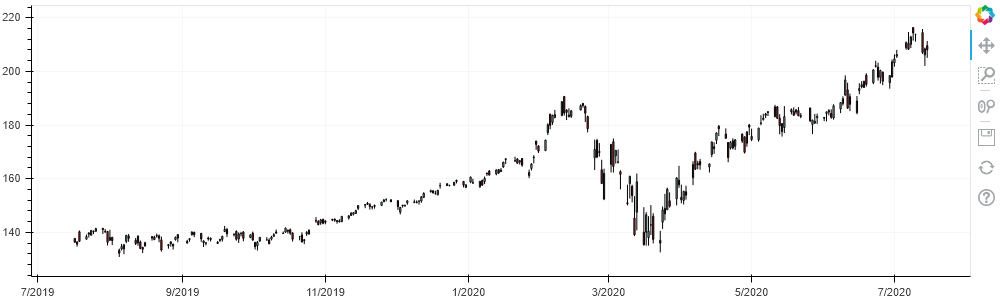
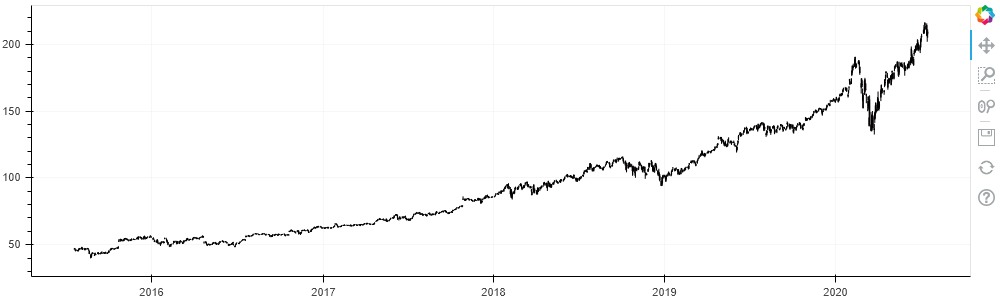
Added options for chart type in !chart command

diff --git a/bot.py b/bot.py
@@ -56,6 +56,17 @@ def inc_dec(c, o):
         value = "Equal"
     return value
 
+def time(entry):
+    if entry == "HY":
+        return 180
+    elif entry == "Y":
+        return 365
+    elif entry == "WK":
+        return 7
+    elif entry == "5Y":
+        return 1825
+    return -1 #bad entry
+
 @bot.event
 async def on_ready():
     print(f'{bot.user.name} has connected to Discord!')
@@ -136,16 +147,25 @@ async def cnews(ctx,stock,number):
         await ctx.send(embed=embed)
     
 
-@bot.command(name="chart") #implement week, half year, full year, 5 year
-async def chart(ctx,stock):
+@bot.command(name="chart")
+async def chart(ctx,stock,span):
     stock2 = stock.upper()
+    span2 = span.upper()
+    timeVal = time(span2)
+
+    if timeVal == -1:
+        await ctx.send(f"Invalid argument {span2}, charts can be given as Weekly (WK), Half Year (HY), Yearly (Y), or 5 Year (5Y).")
+        return
+    
     end = datetime.today()
-    start = datetime.today() - timedelta(days=365)
+    start = datetime.today() - timedelta(days=timeVal)
+
     try:
         df = data.DataReader(name=stock2,data_source="yahoo",start=start,end=end)
     except:
         await ctx.send(f"The stock ***{stock2}*** could not be found, please try again.")
         return
+    
     df["Status"] = [inc_dec(c,o) for c,o in zip(df.Close,df.Open)]
     df["Middle"] = (df.Open+df.Close)/2
     df["Height"] = abs(df.Open-df.Close)
@@ -195,7 +215,7 @@ async def help(ctx):
         )
     embed.set_thumbnail(url= "https://cdn.shopify.com/s/files/1/2118/1625/products/000786a-6_2000x2000.png?v=1586266264")
     embed.add_field(name='!quote <STOCK_TICKER>', value = "Returns the stock's prices for the day (opening, low, high, closing, previous closing)" ,inline = False)
-    embed.add_field(name='!chart <STOCK_TICKER>', value = "Returns a half-year candlestick chart for a given stock" ,inline = False)
+    embed.add_field(name='!chart <STOCK_TICKER> <TIME_RANGE>', value = "Returns a half-year candlestick chart for a given stock (Time ranges are as follows:\n Weekly = WK, Half Year = HY, Yearly = Y, Five Year = 5Y" ,inline = False)
     embed.add_field(name='!cnews <STOCK_TICKER> <ARTICLE_NUMBER>', value = "Returns a news article for a given stock (normally only yields 200 articles)" ,inline = False)
     await ctx.send(embed=embed)
 

diff --git a/testing.py b/testing.py
@@ -25,7 +25,7 @@ finnhub_client = finnhub.DefaultApi(finnhub.ApiClient(configuration))
 #print(finnhub_client.aggregate_indicator('AAPL', 'D'))
 
 # Basic financials
-print(finnhub_client.company_basic_financials('TWTR', 'margin'))
+#print(finnhub_client.company_basic_financials('TWTR', 'margin'))
 
 # Earnings surprises
 #print(finnhub_client.company_earnings('TSLA', limit=5))
